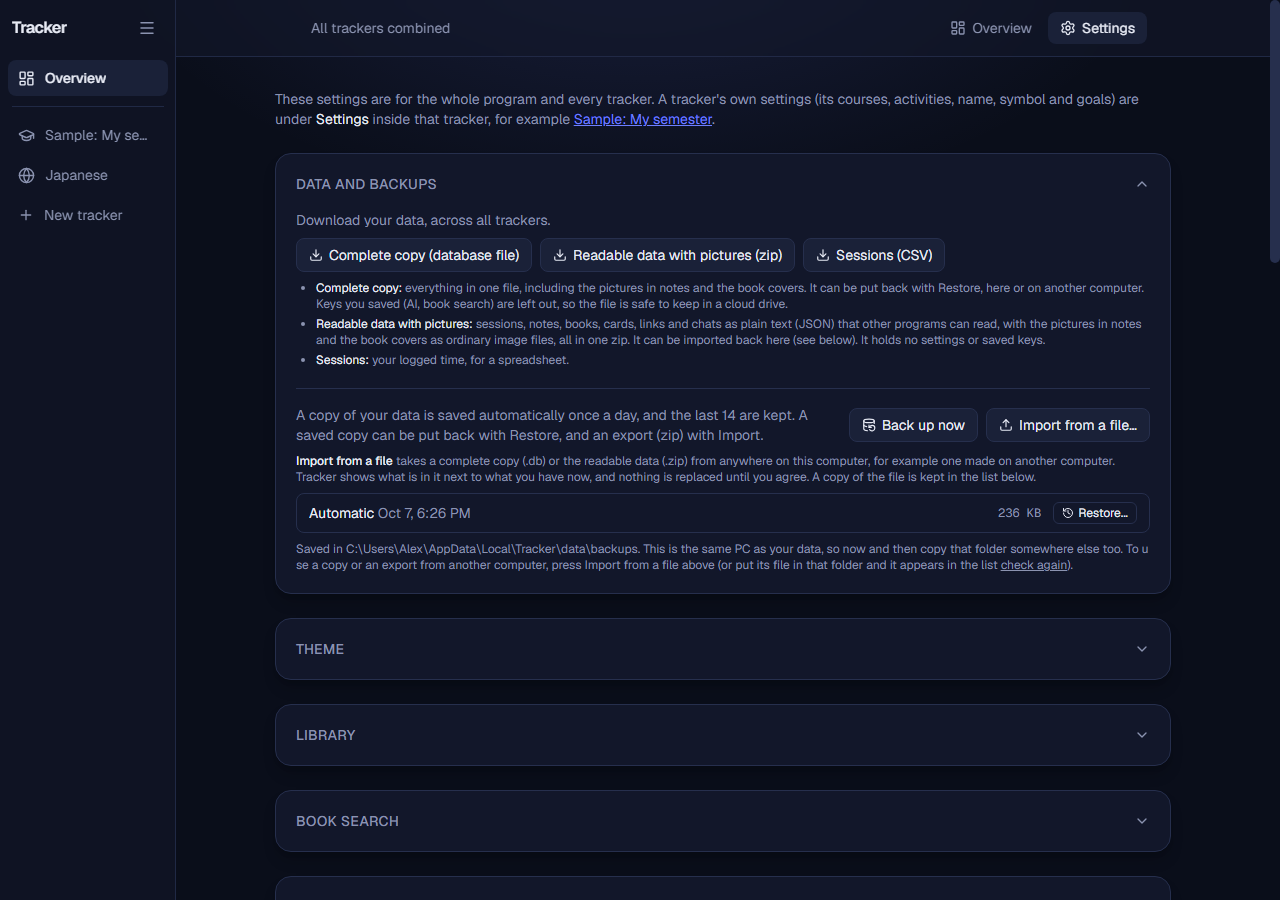
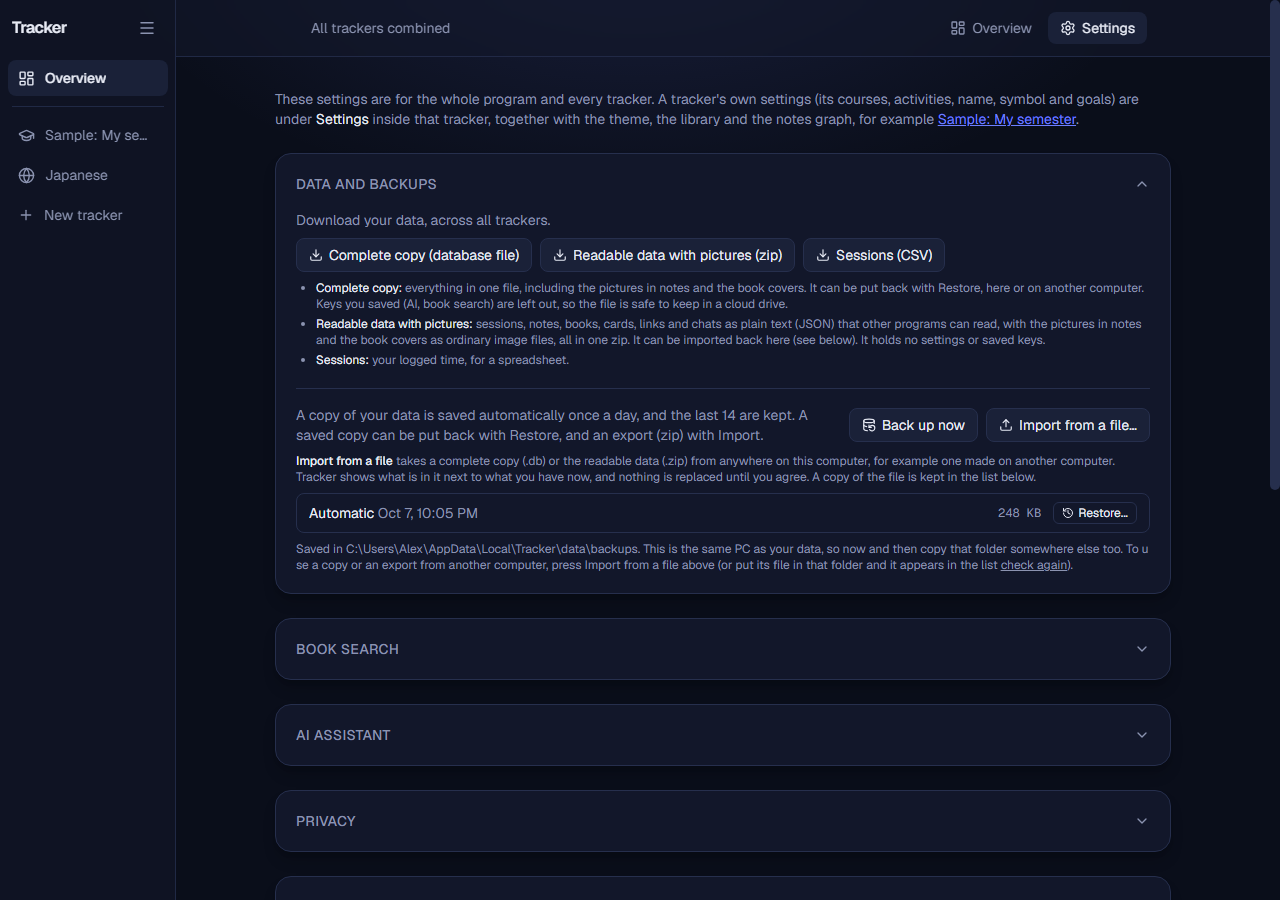
Update the site

diff --git a/docs/manual.html b/docs/manual.html
@@ -23,7 +23,7 @@
   </header>
 
   <h1>The full user manual</h1>
-  <p class="lead">Everything Tracker does, part by part. New here? Start with <a href="guide.html">Getting started in ten minutes</a>. This manual describes version 0.7.0; later versions may add things, and Overview, Settings, About lists what changed.</p>
+  <p class="lead">Everything Tracker does, part by part. New here? Start with <a href="guide.html">Getting started in ten minutes</a>. This manual describes version 0.7.1; later versions may add things, and Overview, Settings, About lists what changed.</p>
 
   <div class="layout">
     <nav class="toc" aria-label="Contents">
@@ -80,8 +80,8 @@
           <tr><td><strong>Book or article</strong></td><td>A text in your Library that you read and can attach sessions and notes to.</td></tr>
           <tr><td><strong>Goal</strong></td><td>A weekly or total number of hours for a course, or a daily goal for the tracker.</td></tr>
         </table>
-        <p>Each tracker has six pages along the top: <strong>Dashboard</strong>, <strong>Log</strong>, <strong>Notes</strong>, <strong>Library</strong>, <strong>Stats</strong> and <strong>Settings</strong>, which holds the settings of that tracker only (its courses, activities, name, symbol and goals). <strong>Overview</strong>, at the top of the sidebar, combines all your trackers and has two pages of its own: <strong>Overview</strong> and <strong>Settings</strong>, which holds the settings of the whole program (data and backups, theme, library, book search, the AI assistant, the notes graph, privacy and about). In this manual, &ldquo;Overview, Settings, Privacy&rdquo; means the Privacy section of that second page.</p>
-        <figure class="shot"><a class="zoom" href="img/settings-general.png"><img src="img/settings-general.png" width="1280" height="900" alt="The settings of the Overview: the Overview and Settings tabs at the top, Data and backups open with its download buttons, Back up now and Import from a file, and the sections Theme, Library and Book search minimised below it." loading="lazy"></a><figcaption>Overview, Settings, with some sections minimised.</figcaption></figure>
+        <p>Each tracker has six pages along the top: <strong>Dashboard</strong>, <strong>Log</strong>, <strong>Notes</strong>, <strong>Library</strong>, <strong>Stats</strong> and <strong>Settings</strong>, which holds the settings of that tracker (its courses, activities, name, symbol and goals) together with the <strong>theme</strong>, the <strong>library</strong> settings and the <strong>notes graph</strong> settings, which are kept in this browser and used in every tracker. <strong>Overview</strong>, at the top of the sidebar, combines all your trackers and has two pages of its own: <strong>Overview</strong> and <strong>Settings</strong>, which holds the settings of the whole program (data and backups, book search, the AI assistant, privacy and about). In this manual, &ldquo;Overview, Settings, Privacy&rdquo; means the Privacy section of that second page.</p>
+        <figure class="shot"><a class="zoom" href="img/settings-general.png"><img src="img/settings-general.png" width="1280" height="900" alt="The settings of the Overview: the Overview and Settings tabs at the top, Data and backups open with its download buttons, Back up now and Import from a file, and the sections Book search, AI assistant and Privacy minimised below it." loading="lazy"></a><figcaption>Overview, Settings, with some sections minimised.</figcaption></figure>
 
         <h2 id="running">2. Installing, starting, quitting</h2>
         <h3>Installing</h3>
@@ -200,9 +200,9 @@
           <li><strong>Full window</strong> (next to Fullscreen) makes the graph fill this browser window, without taking over the screen. It is for people who keep Tracker in a smaller window beside other things. The tick boxes and Fit come along, <kbd>Esc</kbd> leaves it, and <em>Open note</em> leaves it before showing the note. It works together with Fullscreen.</li>
           <li><strong>Fullscreen</strong> (when your browser allows it) gives the graph the whole screen. <kbd>Esc</kbd> leaves it.</li>
           <li>A <strong>solid line with a small arrowhead</strong> runs from a note to each note it is under and pulls it close, so the notes under a note gather around it. A note has a line to a course only for the courses you gave it yourself; it reaches the others through the notes above it. If a [[link]] also joins the two notes, they share that one line.</li>
-          <li><strong>Put under...</strong> (next to <em>Connect to...</em> when a note is selected) puts it under the note you click next. Select an arrow line and press <em>Disconnect</em> to take a note out from under another.</li>
+          <li><strong>Put under...</strong> (next to <em>Connect to...</em> when a note is selected) puts it under the note you click next. The shortcut: hold <kbd>Alt</kbd> (or <kbd>Ctrl</kbd>) and drag the note onto the note it goes under, the way holding <kbd>Shift</kbd> and dragging joins two dots. Select an arrow line and press <em>Disconnect</em> to take a note out from under another.</li>
           <li>A connection can carry a short <strong>comment</strong> that keeps its history, so you can write why two notes belong together. The comment is written along the line, tilted with it and cut with &ldquo;...&rdquo; to fit between the two dots; select the line to read it in full.</li>
-          <li>In Overview, Settings, <em>Notes graph</em> you can choose the shape of each kind of dot and how the graph moves (it follows your computer&rsquo;s &ldquo;reduce motion&rdquo; setting by default).</li>
+          <li>In any tracker&rsquo;s Settings, <em>Notes graph</em>, you can choose the shape of each kind of dot and how the graph moves (it follows your computer&rsquo;s &ldquo;reduce motion&rdquo; setting by default).</li>
           <li><strong>Customise</strong>, in the same place, starts closed and is optional. For every kind of line (links, subfield lines, book lines, under lines and suggestions) you can set its style (solid, dashed or dotted), width, colour, opacity and strength (how hard it pulls its two dots together); for every kind of dot its fill colour and opacity and its border colour and width; and the general pull: <em>Spread</em> (how hard dots push apart) and <em>Centre</em> (how hard everything is pulled to the middle). <em>Automatic</em> keeps the colour the graph picks itself, such as a course&rsquo;s colour. A line still lights up when its dot is selected and fades when another is. <strong>Back to the defaults</strong> brings back the usual look. The choices are kept in this browser and used in every tracker.</li>
         </ul>
         <figure class="shot"><a class="zoom" href="img/graph-fullscreen.png"><img src="img/graph-fullscreen.png" width="1280" height="800" alt="The notes graph shown fullscreen, with a bubble beside the clicked note Research questions showing its course, its text, the notes it connects to and the buttons Open note, Connect to and Clear." loading="lazy"></a><figcaption>Fullscreen: the details of a clicked note open in a bubble beside its dot.</figcaption></figure>
@@ -221,7 +221,7 @@
         <h3>Reading a text</h3>
         <ul>
           <li><strong>Status</strong>: To read, Reading, Paused, Read. Starting to read and finishing are dated for you.</li>
-          <li><strong>Now on page</strong>: type the page you are on. Tracker shows the percent done, <em>pages per hour</em> from your timed sessions, and the time left (&ldquo;about 4 h left&rdquo;). Overview, Settings, Library can also add a guess of how many weeks that is at your recent pace; it is <strong>off by default</strong> because it is only a rough guess, and the hours are useful on their own.</li>
+          <li><strong>Now on page</strong>: type the page you are on. Tracker shows the percent done, <em>pages per hour</em> from your timed sessions, and the time left (&ldquo;about 4 h left&rdquo;). Settings, <em>Library</em> (in any tracker) can also add a guess of how many weeks that is at your recent pace; it is <strong>off by default</strong> because it is only a rough guess, and the hours are useful on their own.</li>
           <li>Pick the text in the timer and the session counts towards it (&ldquo;4h in 3 sessions, last today&rdquo;).</li>
           <li>Notes about a text show how many there are, and can name the page they are about.</li>
           <li>Filter by course, search with <strong>Search the library</strong>, and use <strong>Covers</strong> to show or hide the pictures.</li>
@@ -247,7 +247,7 @@
         <div class="note"><p><strong>What is sent:</strong> with Ollama on this computer, nothing leaves it. With another computer or an online service, your questions and the notes needed to answer go there. <a href="#privacy">The Privacy section</a> spells it out.</p></div>
 
         <h2 id="look">13. Themes and looks</h2>
-        <p>Overview, Settings, <em>Theme</em> offers six themes: <strong>Midnight</strong> (the default dark one), <strong>Black</strong>, <strong>Light</strong>, <strong>Forest</strong>, <strong>Rose</strong> and <strong>Frutiger Aero</strong> (a glassy, see-through style), plus <strong>Custom</strong>.</p>
+        <p>Settings, <em>Theme</em> (in any tracker) offers six themes: <strong>Midnight</strong> (the default dark one), <strong>Black</strong>, <strong>Light</strong>, <strong>Forest</strong>, <strong>Rose</strong> and <strong>Frutiger Aero</strong> (a glassy, see-through style), plus <strong>Custom</strong>.</p>
         <figure class="shot"><a class="zoom" href="img/themes.png"><img src="img/themes.png" width="1472" height="624" alt="The same dashboard shown in six themes: midnight, light, forest, rose, black and Frutiger Aero." loading="lazy"></a><figcaption>The same page in six themes.</figcaption></figure>
         <figure class="shot"><a class="zoom" href="img/settings-theme.png"><img src="img/settings-theme.png" width="1280" height="960" alt="The theme part of settings with the theme choices and the Customize panel open, showing colour pickers." loading="lazy"></a><figcaption>Choosing and customising a theme.</figcaption></figure>
         <ul>
@@ -255,7 +255,7 @@
           <li>If the colours you pick make some text hard to read, a warning says which text and how far off it is. Every built-in theme passes the standard readability rule (WCAG AA).</li>
           <li><strong>Custom</strong> starts from the colours of any theme you pick and lets you build your own.</li>
           <li><strong>Minimise what you do not use.</strong> Every section of both settings pages has a title you can click to minimise it (and again to open it). The choice is remembered in this browser, and a link that points at a minimised section opens it.</li>
-          <li>Theme and look are remembered in this browser and apply to every tracker. <em>Show cover pictures</em> (Overview, Settings, Library) hides or shows book covers everywhere.</li>
+          <li>Theme and look are remembered in this browser and apply to every tracker. <em>Show cover pictures</em> (Settings, Library) hides or shows book covers everywhere.</li>
         </ul>
         <p>The pages also fit a narrow window or a small screen:</p>
         <figure class="shot" style="max-width:300px"><a class="zoom" href="img/phone.png"><img src="img/phone.png" width="390" height="844" alt="The dashboard in a narrow window, with the timer filling the width." loading="lazy"></a><figcaption>A narrow window. (Tracker still runs only on your computer.)</figcaption></figure>
